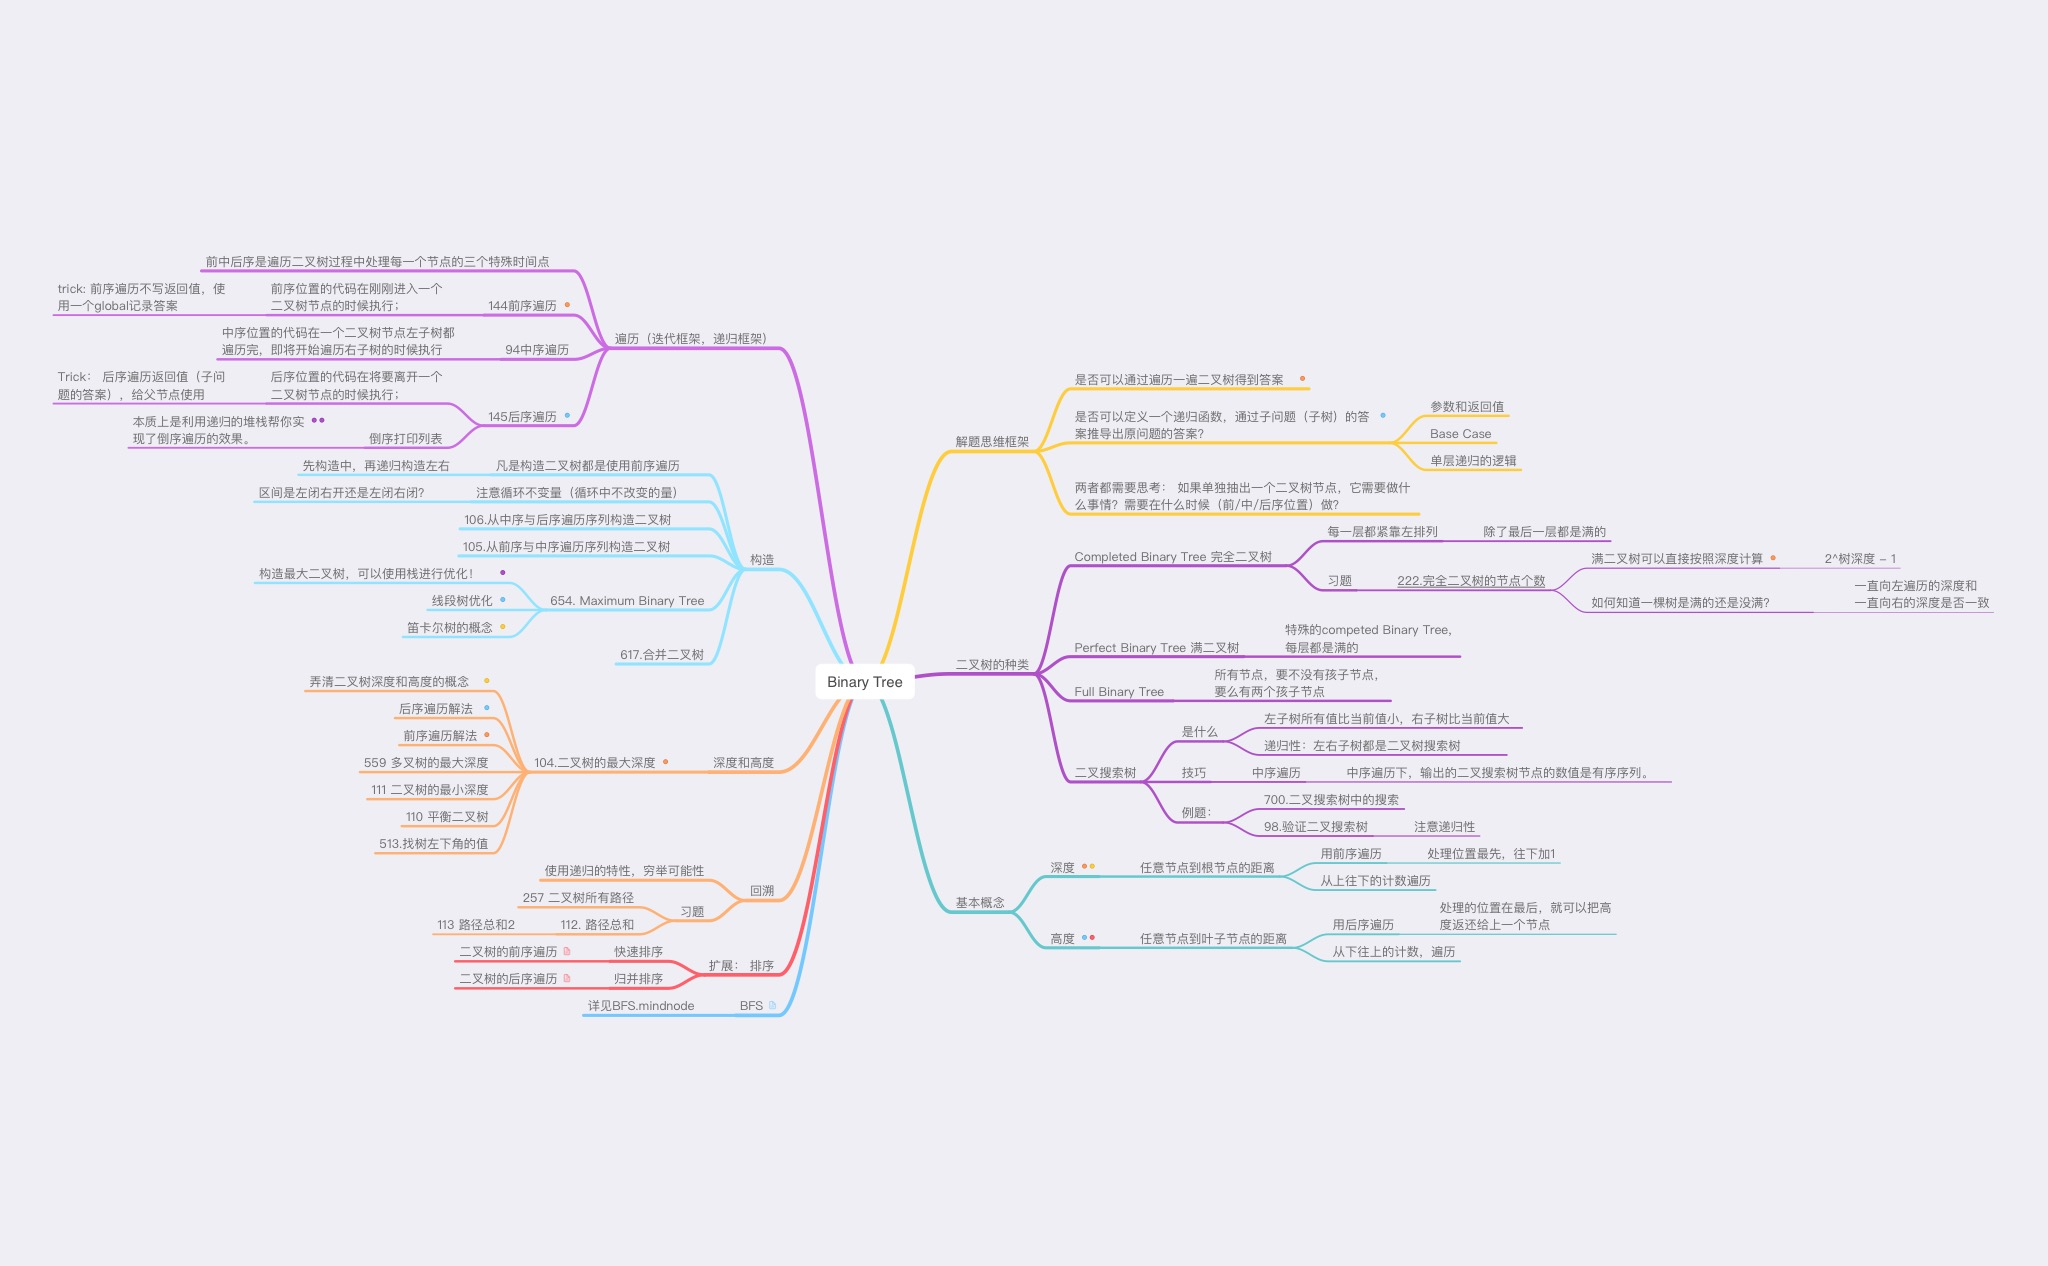
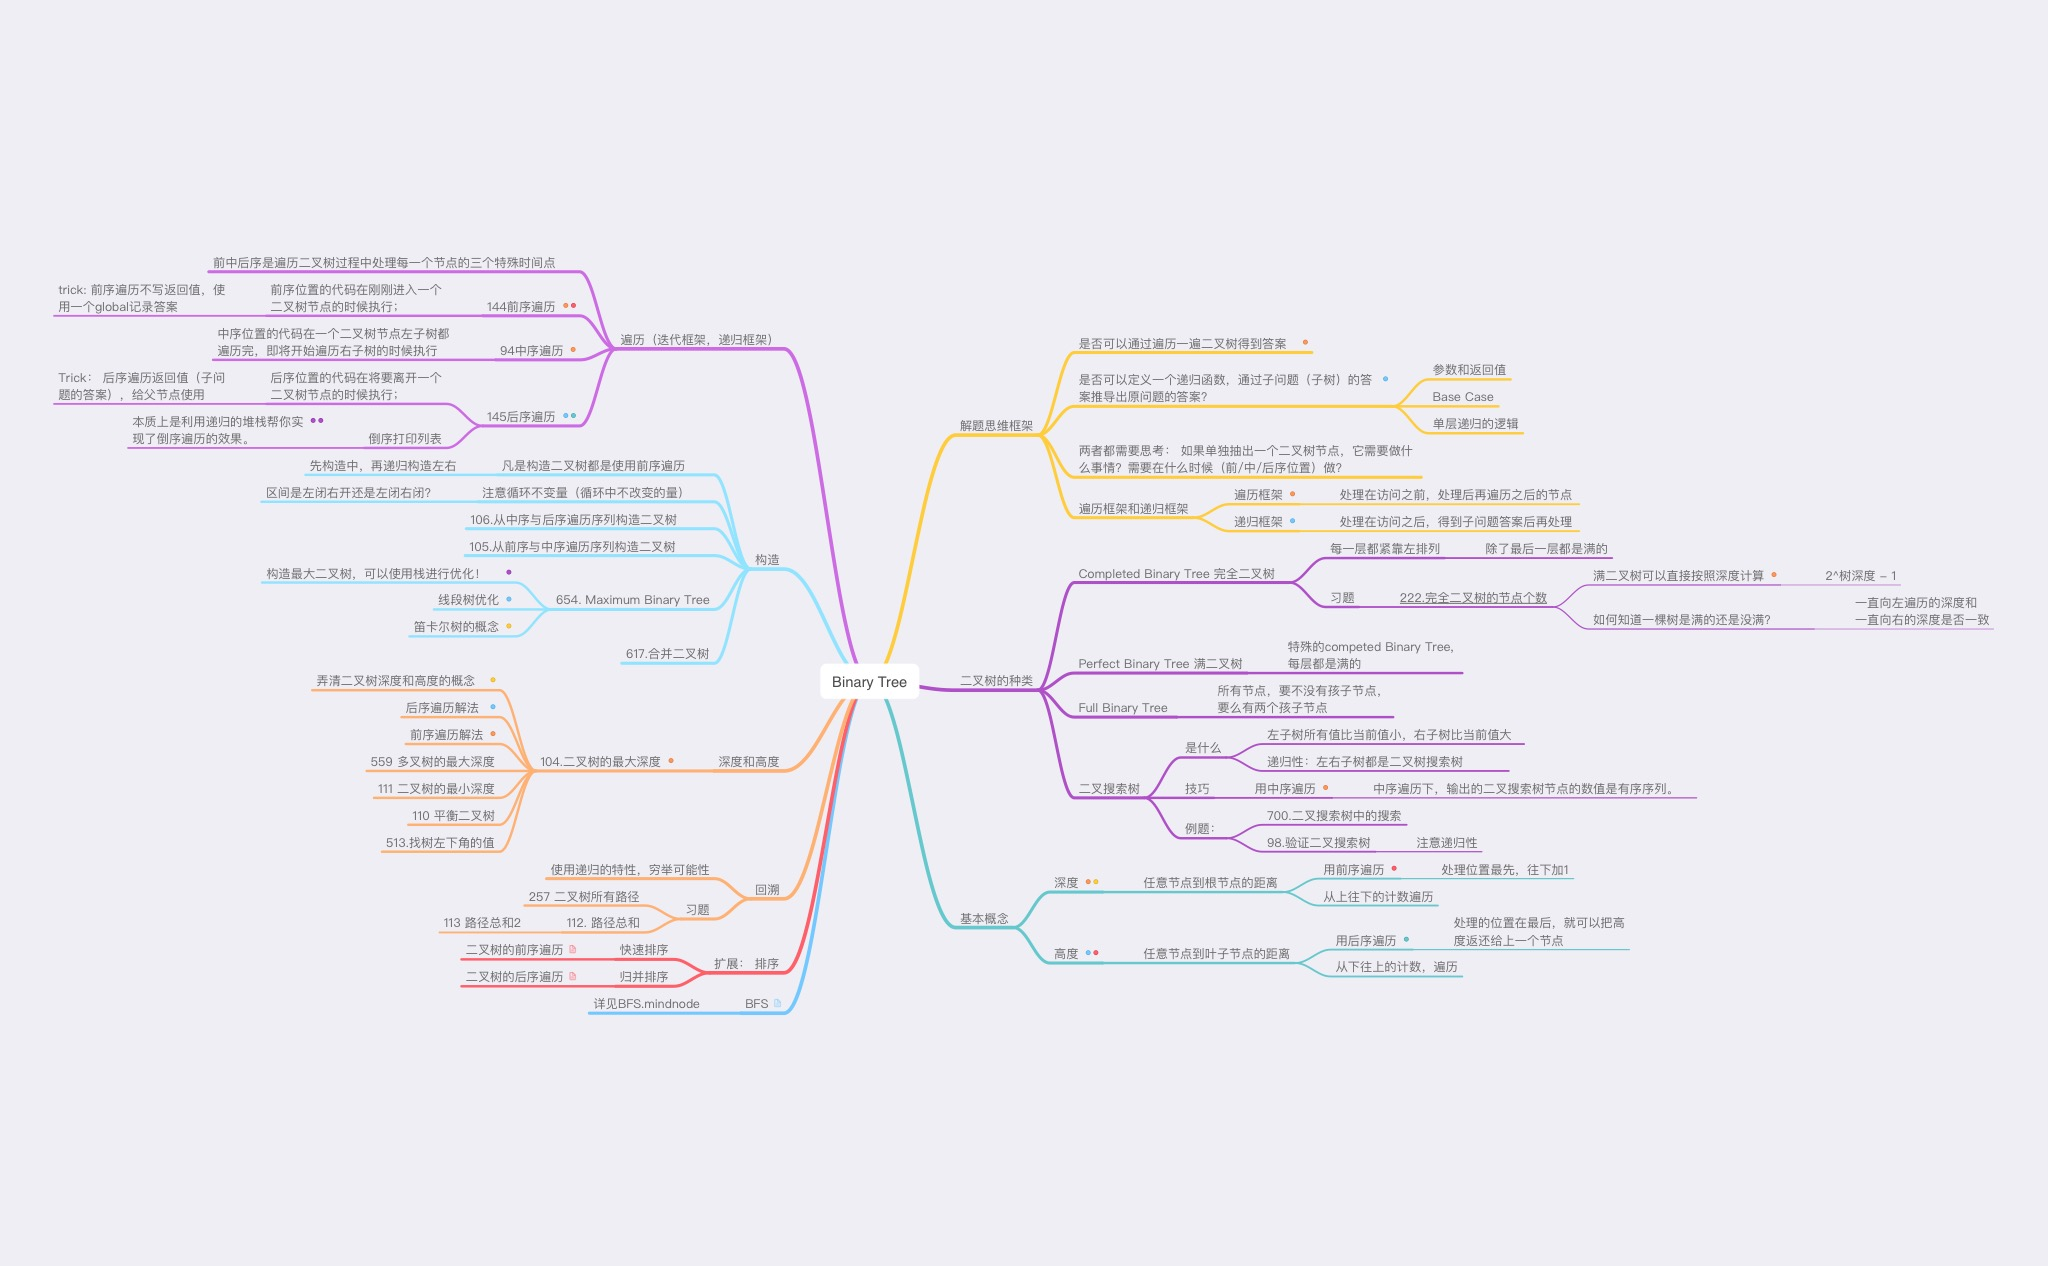
binary Tree day 07

Changed region(s): [[0.0312, 0.1848, 0.9688, 0.8009], [0.4375, 0.7085, 0.5, 0.7393], [0.0312, 0.2156, 0.0938, 0.2464]]

diff --git a/Questions/Binary Tree/BST/[501] Find Mode in Binary Search Tree.md b/Questions/Binary Tree/BST/[501] Find Mode in Binary Search Tree.md
@@ -1,0 +1,162 @@
+> BST中序遍历时，可以于前值比较，判断是否相同，从而得到众数。
+# [Find Mode in Binary Search Tree - LeetCode](https://leetcode.com/problems/find-mode-in-binary-search-tree/description/)
+## Tag
+BST, inOrder
+
+## 审题（关键词）
+求BST中的众数
+
+## 初始思路  
+转换成数组，最后遍历求最大值
+
+:先遍历一遍数组，找出最大频率（maxCount），然后再重新遍历一遍数组把出现频率为maxCount的元素放进集合。（因为众数有多个）
+
+由此也可以在BST中搜索两次找到最大频率的集合
+处理过程： 先计数，再更新最大值和答案。
+
+优化技巧：
+使用一个list存答案，
+当有一个出现频率大于当前max时，清空list，存入新的最大值。保留最大值集合。
+
+## 考点  
+
+## 解法  
+> 使用中序遍历+数组转换
+```java
+class Solution {
+    public int[] findMode(TreeNode root) {
+        List<Integer> inorder = new ArrayList<>();
+
+        traverse(root, inorder);
+        return findMode(inorder);
+    }
+
+     private void traverse(TreeNode root, List<Integer> inorder) {
+        if (root == null) {
+            return ;
+        }
+
+        traverse(root.left, inorder);
+        inorder.add(root.val);
+        traverse(root.right, inorder);
+    }
+
+    private int[] findMode(List<Integer> list) {
+        Set<Integer> modes = new HashSet<>();
+        HashMap<Integer, Integer> map = new HashMap<>();
+        int max = 0;
+        for (int i : list) {
+            map.put(i, map.getOrDefault(i, 0) + 1);
+            max = Math.max(max, map.get(i));
+        }
+
+        for (int i : list) {
+            if (map.get(i) == max) {
+                modes.add(i);
+            }
+        }
+
+        return modes.stream().mapToInt(Integer::intValue).toArray();
+    }
+}
+```
+
+> 不适用额外空间，使用prev指针和比较更新答案：
+```java
+class Solution {
+    List<Integer>  ans = new ArrayList<>();
+    int max = 0;
+    int count = 0;
+    TreeNode prev = null;
+    public int[] findMode(TreeNode root) {
+        // 中序遍历
+        // BC:
+        // 中序处理：count是否是最大，如果最大，更新max和ans数组
+        // 遍历，遍历左右节点
+        traverse(root);
+
+        return ans.stream().mapToInt(Integer::intValue).toArray();
+    }
+
+     private void traverse(TreeNode root) {
+        if (root == null) {
+            return ;
+        }
+        // 访问左
+        traverse(root.left); 
+        
+        // 中：处理
+        // 计数
+        if (prev == null || root.val != prev.val) {
+            count = 1;
+        } else {
+            count++;
+        }
+        // 更新数组和max
+        if (count > max) {
+            ans.clear();
+            max = count;
+            ans.add(root.val);
+        } else if (count == max) {
+            // 有多个值
+            ans.add(root.val);
+        }
+
+        prev = root;
+        // 访问右
+        traverse(root.right); //右
+    }
+
+}
+```
+> 栈的解法： 套用模板，逻辑不变
+```java
+class Solution {
+    List<Integer>  ans = new ArrayList<>();
+    int max = 0;
+    int count = 0;
+    TreeNode prev = null;
+    public int[] findMode(TreeNode root) {
+        Stack<TreeNode> stack = new Stack<>();
+        
+        TreeNode curr = root;
+        // 中序遍历：左中右，中间节点需要左边全部遍历完毕
+        while (curr != null || !stack.isEmpty()) {
+            // 访问：当前指针还需要往左遍历, 左边节点的全部放入栈
+            if (curr != null) {
+                stack.push(curr);
+                curr = curr.left;
+            } else {
+                // 访问到最左，开始处理：出栈输出
+                curr = stack.pop();
+                // 中：处理
+                // 计数
+                if (prev == null || curr.val != prev.val) {
+                    count = 1;
+                } else {
+                    count++;
+                }
+                // 更新数组和max
+                if (count > max) {
+                    ans.clear();
+                    max = count;
+                    ans.add(curr.val);
+                } else if (count == max) {
+                    // 有多个值
+                    ans.add(curr.val);
+                }
+
+                prev = curr;
+
+                // 处理完当前，回溯时，开始访问右节点。
+                curr = curr.right;
+            }
+        }
+        
+        return ans.stream().mapToInt(Integer::intValue).toArray();
+    }
+
+}
+```
+## 难点
+使用prev指针，记录信息，利用BST中序遍历的特性更新最大值。

diff --git a/Questions/Binary Tree/BST/[530] Minimum Absolute Difference in BST.md b/Questions/Binary Tree/BST/[530] Minimum Absolute Difference in BST.md
@@ -1,0 +1,106 @@
+# [Minimum Absolute Difference in BST - LeetCode](https://leetcode.com/problems/minimum-absolute-difference-in-bst/description/)
+## Tag
+BST, inOrder
+## 审题（关键词） 
+找最小差值
+
+## 初始思路  
+还是得遍历一遍，因为是BST，所以最小肯定在中序遍历的相邻值之间
+
+## 考点  
+BST的中序遍历
+
+## 解法  
+> 记录前一个值，中序遍历比较min
+```java
+class Solution {
+    int min = Integer.MAX_VALUE;
+    Integer prev;
+
+    public int getMinimumDifference(TreeNode root) {
+        if (root == null) {
+            return -1;
+        }    
+
+        getMinimumDifference(root.left);
+
+        if (prev != null) {
+            min = Math.min(min, root.val - prev);
+        }
+        prev = root.val;
+
+        getMinimumDifference(root.right);
+
+        return min;
+    }
+}
+```
+> 中序遍历得到数组，遍历一遍得到最小gap
+```java
+class Solution {
+    public int getMinimumDifference(TreeNode root) {
+        List<Integer> inorder = new ArrayList<>();
+
+        traverse(root, inorder);
+        return findMinDiff(inorder);
+    }
+
+    private void traverse(TreeNode root, List<Integer> inorder) {
+        if (root == null) {
+            return ;
+        }
+
+        traverse(root.left, inorder);
+        inorder.add(root.val);
+        traverse(root.right, inorder);
+    }
+
+    private int findMinDiff(List<Integer> inorder) {
+        int min = Integer.MAX_VALUE;
+        for (int i = 1; i < inorder.size(); i++) {
+            int diff = inorder.get(i) - inorder.get(i - 1);
+            min = Math.min(min, diff);
+        }
+
+        return min;
+    }
+}
+```
+> 使用栈的思路：
+```java
+class Solution {
+
+
+    public int getMinimumDifference(TreeNode root) {
+        int min = Integer.MAX_VALUE;
+        Integer pre = null;
+        Stack<TreeNode> stack = new Stack<>();
+        
+        TreeNode curr = root;
+        // 中序遍历：左中右，中间节点需要左边全部遍历完毕
+        while (curr != null || !stack.isEmpty()) {
+            // 访问：当前指针还需要往左遍历, 左边节点的全部放入栈
+            if (curr != null) {
+                stack.push(curr);
+                // 访问： 左节点
+                curr = curr.left;
+            } else {
+                // 访问到最左，开始处理：出栈输出
+                curr = stack.pop();
+                
+                // 处理： 中节点
+                if (pre != null) {
+                    min = Math.min(min, curr.val - pre);
+                }
+                pre = curr.val;
+
+                // 处理完当前，回溯时，开始访问右节点。
+                curr = curr.right;
+            }
+        }
+        
+        return min;
+    }
+}
+```
+## 难点

diff --git a/Questions/Binary Tree/BST/236. Lowest Common Ancestor of a Binary Tree.md b/Questions/Binary Tree/BST/236. Lowest Common Ancestor of a Binary Tree.md
@@ -1,0 +1,52 @@
+# [Lowest Common Ancestor of a Binary Tree - LeetCode](https://leetcode.com/problems/lowest-common-ancestor-of-a-binary-tree/description/)
+## Tag
+binary tree,postOrder
+## 审题（关键词） 
+最近公共祖先
+## 初始思路 
+这题需要先找到两个节点，然后从下往上访问找到公共父节点。  
+需要注意的是，访问是没有办法从下往上的，  
+但是我们可以利用后序遍历，处理在最后处理。
+
+## 考点  
+后序遍历
+技巧：使用数字记录是否找到节点，如果找到就返回1，如果同时找到就返回2.
+## 解法  
+```java
+class Solution {
+    TreeNode ancestor;
+    public TreeNode lowestCommonAncestor(TreeNode root, TreeNode p, TreeNode q) {
+        // 后序遍历
+        // 参数：不需要，返回值：可以返回找到的节点数量
+        // 遍历：左右子树找到的节点数量
+        // 处理：本节点是否找到两个节点：
+        ancestor = null;
+        traverse(root, p, q);
+        return ancestor;
+    }
+
+    private int traverse(TreeNode root, TreeNode p, TreeNode q) {
+        if (root == null) {
+            return 0;
+        }
+
+        // 访问： 找到左右子树的p和q的数量
+        int left = traverse(root.left, p, q);
+        int right = traverse(root.right, p, q);
+        
+        // 处理：如果找到第一个值为2，更新ancestor
+        int curr = left + right;
+        if (root.val == p.val || root.val == q.val) {
+            curr += 1;
+        }
+
+        if (curr == 2 && ancestor == null) {
+            ancestor = root;
+        }
+
+        return curr;
+    }
+}
+```
+
+## 难点

diff --git a/Questions/Binary Tree/BST/98. Validate Binary Search Tree.md b/Questions/Binary Tree/BST/98. Validate Binary Search Tree.md
@@ -12,7 +12,7 @@ BST利用中序遍历！中序遍历输出是有序的
 ## 考点  
 BST
 ## 解法  
-
+> 递归解法
 ```java
 class Solution {
     // 使用全局max记录子树的最大值
